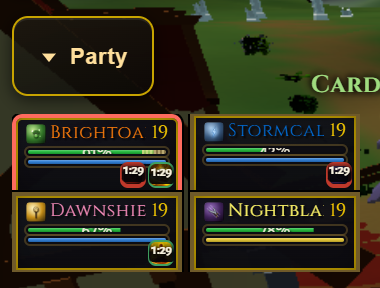
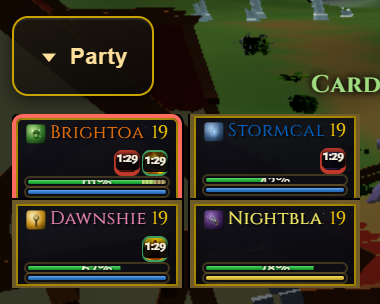
fix(ui): separate party auras from status rails
Give classic party frames a dedicated aura lane above health while preserving the compact raid overlay. Add a browser geometry regression so helpful and harmful effects cannot cover health or resource rails.

diff --git a/tests/browser/party_aura_layout.browser.test.ts b/tests/browser/party_aura_layout.browser.test.ts
@@ -55,4 +55,35 @@ describe('compact raid aura timing', () => {
       labels[1].getBoundingClientRect().left + EPSILON,
     );
   });
+
+  it('keeps classic party auras in a dedicated lane above both status rails', () => {
+    const frames = document.createElement('div');
+    frames.id = 'party-frames';
+    frames.className = 'party-expanded';
+    const rows = document.createElement('div');
+    rows.className = 'party-rows';
+    const row = document.createElement('div');
+    row.className = 'party-frame';
+    const name = document.createElement('div');
+    name.className = 'pfm-name';
+    name.textContent = 'Brightoak';
+    const strip = document.createElement('div');
+    strip.className = 'pfm-auras';
+    strip.append(aura('buff timed debuff', '1:30'), aura('buff timed', '1:30'));
+    const hp = document.createElement('div');
+    hp.className = 'bar hp';
+    const resource = document.createElement('div');
+    resource.className = 'bar';
+    row.append(name, strip, hp, resource);
+    rows.appendChild(row);
+    frames.appendChild(rows);
+    document.body.appendChild(frames);
+
+    const stripRect = strip.getBoundingClientRect();
+    const hpRect = hp.getBoundingClientRect();
+    const resourceRect = resource.getBoundingClientRect();
+    expect(stripRect.bottom).toBeLessThanOrEqual(hpRect.top + EPSILON);
+    expect(stripRect.bottom).toBeLessThanOrEqual(resourceRect.top + EPSILON);
+    expect(hpRect.bottom).toBeLessThanOrEqual(resourceRect.top + EPSILON);
+  });
 });

diff --git a/src/styles/hud.css b/src/styles/hud.css
@@ -2091,19 +2091,20 @@
     width: 38px;
     height: 38px;
   }
-  /* Party member mini aura strip: overlay the compact icons so gaining or losing
-     an aura never changes frame height or shifts the surrounding raid grid. */
+  /* Classic party member auras own a compact lane above the HP rail. Keep the
+     lane reserved so effects never cover health/resource information and rows
+     do not jump as effects appear. Raid tiles override this into an overlay. */
   .party-frame .pfm-auras {
-    position: absolute;
-    right: 2px;
-    bottom: 2px;
+    position: relative;
     z-index: 5;
     display: flex;
     flex-wrap: nowrap;
-    max-width: calc(100% - 4px);
-    overflow: hidden;
+    justify-content: flex-end;
+    width: 100%;
+    min-height: 16px;
+    overflow: visible;
     gap: 2px;
-    margin: 0;
+    margin: 2px 0 0;
     pointer-events: auto;
   }
   .pfm-auras .buff {
@@ -5974,12 +5975,17 @@
     border-radius: 2px;
   }
   #party-frames.party-style-raid .party-frame .pfm-auras {
+    position: absolute;
     left: auto;
     right: 4px;
     top: auto;
     bottom: 13px;
+    width: auto;
+    min-height: 0;
+    margin: 0;
     translate: none;
     align-items: flex-end;
+    justify-content: flex-start;
     overflow: visible;
     gap: 5px;
   }

diff --git a/src/styles/hud.mobile.css b/src/styles/hud.mobile.css
@@ -1882,11 +1882,12 @@
     height: 5px;
     margin-top: 1px;
   }
-  /* The desktop .pfm-auras is an absolute bottom-right overlay. On a compact
-     mobile member row the 16px desktop icons crowd the name/HP, so shrink them
-     while keeping the exact duration capsule readable. */
+  /* Classic mobile party auras retain their dedicated lane above HP. Shrink the
+     desktop icons without collapsing that separation or the exact timer label. */
   body.mobile-touch #party-frames .party-frame .pfm-auras {
+    min-height: 13px;
     max-width: 60%;
+    margin-left: auto;
     gap: 1px;
   }
   body.mobile-touch #party-frames .pfm-auras .buff {

diff --git a/src/ui/party_frame_row.ts b/src/ui/party_frame_row.ts
@@ -268,7 +268,10 @@ export function createPartyRow(
     aurasPainter.paint(aurasView.tick(aurasEntity), visibleCap);
   };
 
-  row.append(nameRow, hpBar, resBar, aurasEl);
+  // Classic party frames keep this lane in flow between identity and health so
+  // effects can never cover either status rail. Raid CSS takes the same pooled
+  // strip out of flow and anchors it over the compact portrait tile.
+  row.append(nameRow, aurasEl, hpBar, resBar);
 
   const handlers = partyRowHandlers(slot, deps);
   row.addEventListener('click', handlers.click);
